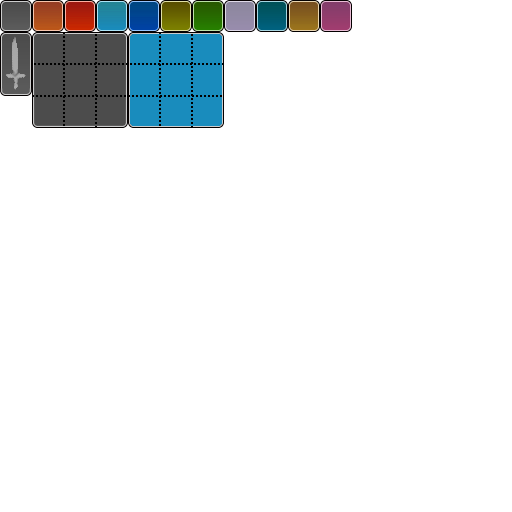
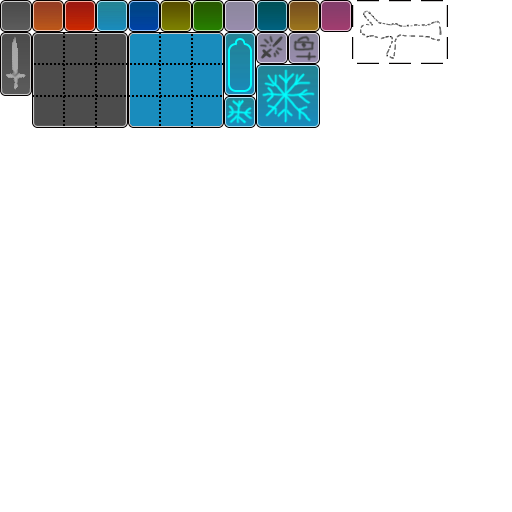
1.хуйзнаеткакой
Фиксы хуиксы и новые фичи

Changed region(s): [[0.4375, 0.0625, 0.625, 0.25], [0.6875, 0.0, 0.875, 0.125]]

diff --git a/DG7_DAD_Inventory(Advanced)/js/plugins/DG7_DAD_Inventory(Advanced).js b/DG7_DAD_Inventory(Advanced)/js/plugins/DG7_DAD_Inventory(Advanced).js
@@ -413,6 +413,7 @@ DADCell.prototype.constructor = DADCell
 DADCell.prototype.initialize = function (id, sprite, winancorx, winancory){
   this.winancorx = winancorx
   this.winancory = winancory
+  this.sprite = sprite
   bitmap = ImageManager.loadBitmap("img/DAD/", "inventorycells",0,true)
   Sprite.prototype.initialize.call(this, bitmap)
   this.setFrame(DADPlugInfo.cellsize * (sprite%16), DADPlugInfo.cellsize * Math.floor(sprite/16), DADPlugInfo.cellsize, DADPlugInfo.cellsize);
@@ -932,9 +933,11 @@ removeDADModuleByChar(char, module){
 //=======================================================
 
 removeDADModuleByPM(char, module){
+  console.log(char)
+  console.log(module)
   if (DADPlugInfo.multibags == "true")
   {
-    this.removeDADModuleUni($gameParty._actor[char], module)
+    this.removeDADModuleUni($gameParty._actors[char], module)
   }
 }
 
@@ -1741,7 +1744,7 @@ isThereAModuleByChar(char, module, returnswitch) {
 isThereAModuleByPM(char, module, returnswitch) {
   if (DADPlugInfo.multibags == "true")
   {
-    this.isThereAModuleUni($gameParty._actor[char], module, returnswitch)
+    this.isThereAModuleUni($gameParty._actors[char], module, returnswitch)
   }
 }
 
@@ -1751,10 +1754,10 @@ isThereAModuleByPM(char, module, returnswitch) {
 
 isThereAModuleUni(char,module,returnswitch)
 {
-  verdict = false
+  var verdict = false
   for (var i=0; i < $gameParty.DADmodules[char].length;i++)
   {
-    if ($gameParty.DADmodules[char][i] == module)
+    if ($gameParty.DADmodules[char][i].id == module)
     {
       verdict = true
       i = $gameParty.DADmodules[char].length
@@ -1890,7 +1893,7 @@ isCharHaveDADItem(itemtype, dataid, char, returnswitch, module) {
 isPMHaveDADItem(itemtype, dataid, char, returnswitch, module) {
   if (DADPlugInfo.multibags == "true")
   {
-    this.isUniHaveDADItem(itemtype, dataid, $gameParty._actor[char], returnswitch, module)
+    this.isUniHaveDADItem(itemtype, dataid, $gameParty._actors[char], returnswitch, module)
   }
 }
 
@@ -1919,12 +1922,12 @@ isUniHaveDADItem(itemtype, dataid, char, returnswitch, module) {
   {
     for (var i = 0; i < $gameParty.DADitems[char].length;i++)
     {
-      for (j=0; j < $gameParty.DADitems[char][i].length; j++)
+      for (j=0; i != $gameParty.DADitems[char].length && j < $gameParty.DADitems[char][i].length; j++)
       {
-        if ($gameParty.DADitems[char][i][j].itemtype == itemtype && $gameParty.DADitems[char][i][j].dataid == dataid)
+        if ($gameParty.DADitems[char][i] != undefined && $gameParty.DADitems[char][i][j].itemtype == itemtype && $gameParty.DADitems[char][i][j].dataid == dataid)
         {
-          i = $gameParty.DADitems[char].length
           j = $gameParty.DADitems[char][i].length
+          i = $gameParty.DADitems[char].length
           verdict = true
         }
       }
@@ -2483,10 +2486,52 @@ BattleManager.startAction = function() {
         }
       }
 
+      this.cellSpriteCheck = function(sprite){
+        console.log(sprite)
+        switch (this.tsample.itemtype)
+        {
+        case "item":
+          var itemnote = $dataItems[this.tsample.dataid].note
+        break;
+        case "weapon":
+          var itemnote = $dataWeapons[this.tsample.dataid].note
+        break;
+        case "armor":
+          var itemnote = $dataArmors[this.tsample.dataid].note
+        break;
+        }
+        var allowed = itemnote.match(/<DADAllowedCellSprites: (.*)>/i);
+        if (allowed != null)
+        {
+          allowed = allowed[1].split(" ")
+          var verdict = false
+          for (var i = 0; i < allowed.length; i++)
+          {
+            if (allowed[i] == sprite)
+            {verdict = true}
+          }
+          return verdict
+        }
+        else
+        {
+          var forbidden = itemnote.match(/<DADForbiddenCellSprites: (.*)>/i);
+          if (forbidden != null)
+          {
+            forbidden = forbidden[1].split(" ")
+            for (var i = 0; i < forbidden.length; i++)
+            {
+              if (forbidden[i] == sprite)
+              {return false}
+            }
+          }
+        }
+        return true
+      }
+
       this.coreOneCellMoveAnalysis = function() {
         var ohb = this._DADInventoryWindow[this.wp].DADcells[this.mp][this.pc]
         fc = logicProcessor(ohb, ohb.inputlogic, this.tsample, this._actor._actorId)
-        if ((this._DADInventoryWindow[this.wp].DADcells[this.mp][this.pc].item == null || (this._DADInventoryWindow[this.wp].DADcells[this.mp][this.pc].item == this.grit && this.grcon == this.wp && this.mp != this.grmod)) && fc != false)
+        if ((this._DADInventoryWindow[this.wp].DADcells[this.mp][this.pc].item == null || (this._DADInventoryWindow[this.wp].DADcells[this.mp][this.pc].item == this.grit && this.grcon == this.wp && this.mp != this.grmod)) && fc != false && this.cellSpriteCheck(this._DADInventoryWindow[this.wp].DADcells[this.mp][this.pc].sprite))
         {
           this.allcells = [this.pc]
         }
@@ -2694,6 +2739,7 @@ BattleManager.startAction = function() {
                     moduleid = moduleid[1]
                     if (DADPlugInfo.multibags == "true")
                     {
+                      console.log(this._slotWindow._actor._actorId, moduleid)
                       DADPC.addDADModuleByChar(this._slotWindow._actor._actorId, moduleid)
                     }
                     else
@@ -2899,7 +2945,7 @@ BattleManager.startAction = function() {
               this.coreEmptyReaction()
 
               var key = 1 
-              for (var i=0; this.refpls == true && this.situation != "Shopping" && ( (i<this._DADInventoryWindow.length && DADPlugInfo.multibags == "true") || i<1 ); i++)
+              for (var i=0; this.refpls == true && this.situation != "Shopping" && this.situation != "Chest" && ( (i<this._DADInventoryWindow.length && DADPlugInfo.multibags == "true") || i<1 ); i++)
               {
                 if (DADPlugInfo.multibags == "true")
                 {key = $gameParty._actors[i]}
@@ -3278,9 +3324,7 @@ BattleManager.startAction = function() {
       }
       else
       {
-        var tochnoidup = getElementNumberById($dataDADComplexGrids, $dataDADModules[daidup].ComplexGridId)
-        if (tochnoidup != null)
-        {newcells = GetComplexGrid($dataDADComplexGrids[tochnoidup])}
+        newcells = GetComplexGrid($dataDADModules[daidup].ComplexGridId)
       }
       this.DADCells = [null, [newcells]]
       this.BaseModuleRef = [null, $dataDADModules[daidup]]
@@ -3360,12 +3404,15 @@ Game_Party.prototype.loseItem = function(item, amount, includeEquip) {
   }
   else
   {
-    for (var i = 1; i < $gameParty._actors.length; i++)
+    for (var i = 0; i < $gameParty._actors.length; i++)
     {
       for (var j = 0; j < $gameParty.DADCells[$gameParty._actors[i]].length; j++)
-      verdict = DADPC.isPMHaveDADItem(itemtype, item.id, i, null)
-      if (verdict)
+      verdict = DADPC.isUniHaveDADItem(itemtype, item.id, $gameParty._actors[i])
+    
+      console.log(verdict)
+      if (verdict == true)
       {
+        console.log("sas")
         DADPC.removeDADItemFromInvByPM(itemtype, item.id, i)
         i = $gameParty._actors.length
       }
@@ -4126,13 +4173,16 @@ Game_Party.prototype.loseItem = function(item, amount, includeEquip) {
             this._DADItemInfo = new Window_DADInfo()
             this.addWindow(this._DADItemInfo)
             this._DADItemInfo.setHandler('cancel',   this.stopEquipping.bind(this));
-            this.pointedactor = 0
             if (DADPlugInfo.multibags == "true")
             {
               this._DADItemInfo.setHandler('pagedown', this.nextAct.bind(this));
               this._DADItemInfo.setHandler('pageup',   this.previousAct.bind(this));
             }
             this.createPartyDADInvWindows(this._slotWindow.width, this._DADItemInfo.height, Graphics.boxWidth - this._slotWindow.width, Graphics.boxHeight - this._DADItemInfo.height,true)
+            this._DADInventoryWindow[0].hide()
+            var winnow = getElementNumber($gameParty._actors, this._actor._actorId)
+            this._DADInventoryWindow[winnow].show()
+            this.pointedactor = winnow
             this._statusWindow.y = this._DADItemInfo.height
             this._slotWindow.height = Graphics.boxHeight - this._DADItemInfo.height - this._statusWindow.height
             this._slotWindow.y = this._statusWindow.y + this._statusWindow.height
@@ -4147,6 +4197,7 @@ Game_Party.prototype.loseItem = function(item, amount, includeEquip) {
             this._blankWindow.hide()
             this.addWindow(this._blankWindow)
             this.syncupdate()
+            this._DADItemInfo.activate()
           };
       
           Scene_Equip.prototype.equipping = function() {
@@ -4202,7 +4253,7 @@ Game_Party.prototype.loseItem = function(item, amount, includeEquip) {
           };
       
           Scene_Equip.prototype.stopEquipping = function() {
-              this._DADItemInfo.deactivate()
+            this._DADItemInfo.activate()
               this._slotWindow.refresh()
               this._statusWindow.refresh()
               this._slotWindow.activate()
@@ -4300,7 +4351,7 @@ Game_Party.prototype.loseItem = function(item, amount, includeEquip) {
                     this._DADItemInfo.setHandler('pagedown', this.nextAct.bind(this));
                     this._DADItemInfo.setHandler('pageup',   this.previousAct.bind(this));
                   }
-                  this.createPartyDADInvWindows(0, this._DADItemInfo.height, Graphics.boxWidth/2, Graphics.boxHeight - this._DADItemInfo.height, true)
+                  this.createPartyDADInvWindows(0, this._DADItemInfo.height, Graphics.boxWidth, Graphics.boxHeight - this._DADItemInfo.height, true)
                   this.syncupdate()
               };
       
@@ -4322,19 +4373,19 @@ Game_Party.prototype.loseItem = function(item, amount, includeEquip) {
                 switch (this._DADInventoryWindow[i].DADitems[j][k].itemtype)
                 {
                   case "item":
-                    $gameVariables.setValue(DADPlugInfo.itemchoose, this._DADInventoryWindow[i].DADitems[j][k].dataid)
+                    $gameVariables.setValue(DADPlugInfo.itemchoose, toNumber(this._DADInventoryWindow[i].DADitems[j][k].dataid))
                     $gameVariables.setValue(DADPlugInfo.weaponchoose, 0)
                     $gameVariables.setValue(DADPlugInfo.armorchoose, 0)
                   break;
                   case "weapon":
                     $gameVariables.setValue(DADPlugInfo.itemchoose, 0)
-                    $gameVariables.setValue(DADPlugInfo.weaponchoose, this._DADInventoryWindow[i].DADitems[j][k].dataid)
+                    $gameVariables.setValue(DADPlugInfo.weaponchoose,  toNumber(this._DADInventoryWindow[i].DADitems[j][k].dataid))
                     $gameVariables.setValue(DADPlugInfo.armorchoose, 0)
                   break;
                   case "armor":
                     $gameVariables.setValue(DADPlugInfo.itemchoose, 0)
                     $gameVariables.setValue(DADPlugInfo.weaponchoose, 0)
-                    $gameVariables.setValue(DADPlugInfo.armorchoose, this._DADInventoryWindow[i].DADitems[j][k].dataid)
+                    $gameVariables.setValue(DADPlugInfo.armorchoose,  toNumber(this._DADInventoryWindow[i].DADitems[j][k].dataid))
                   break;
                 }
                 SceneManager.pop()
